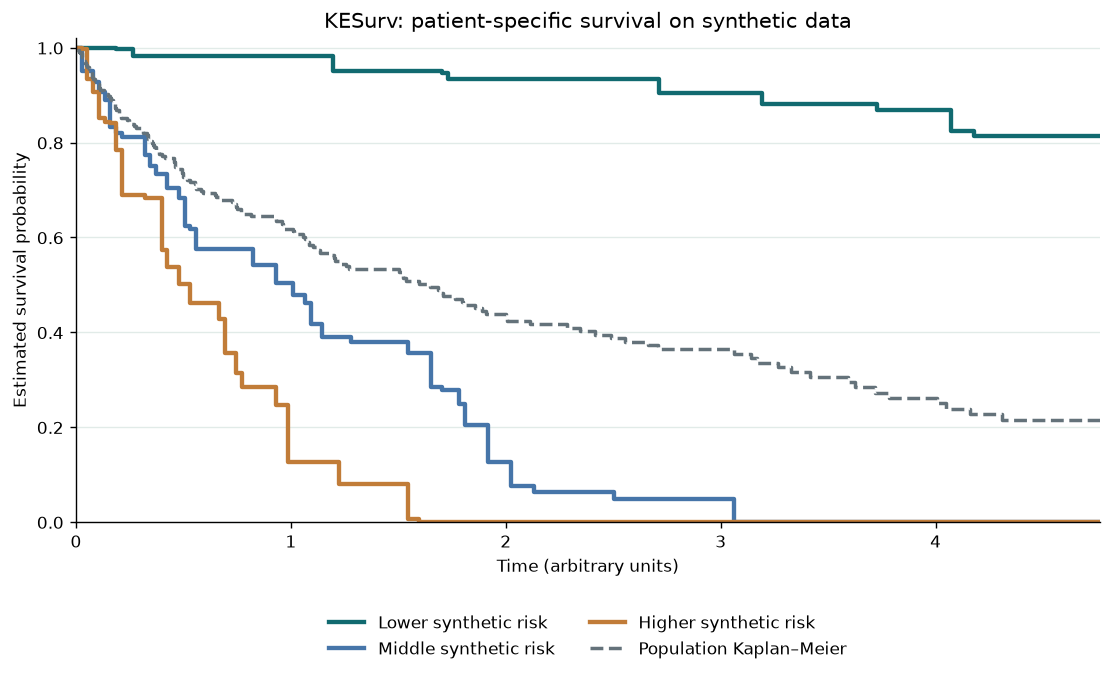
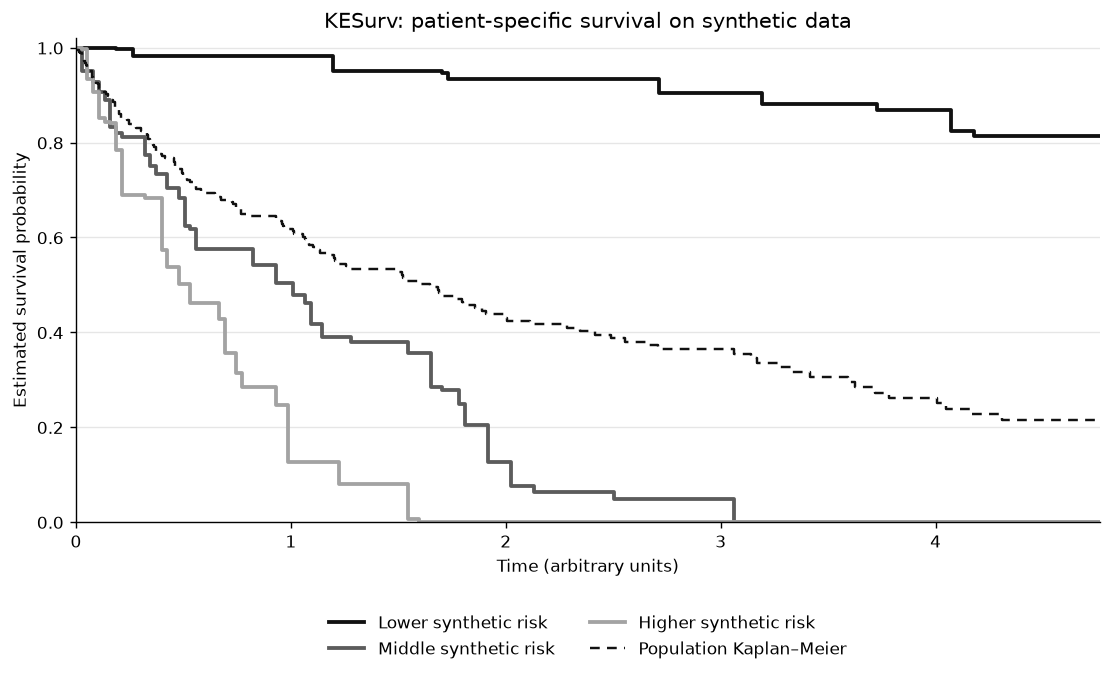
docs: monochrome editorial redesign of the landing page
Serif display type, grid-paper hero, feature cards with line icons, a
numbered pipeline, framed figure, and a grayscale synthetic-curve plot.

diff --git a/docs/_static/custom.css b/docs/_static/custom.css
@@ -1,15 +1,81 @@
-/* Minimal adjustments on top of Furo. */
-@import url("https://fonts.googleapis.com/css2?family=Inter:wght@400;500;600;700&family=JetBrains+Mono:wght@400;500&display=swap");
+/* KESurv: a monochrome, typographic layer on top of Furo. */
+@import url("https://fonts.googleapis.com/css2?family=Inter:wght@400;500;600;700&family=Instrument+Serif:ital@0;1&family=JetBrains+Mono:wght@400;500&display=swap");
 
-body { font-feature-settings: "cv11", "ss01"; }
-article h1 { font-weight: 700; letter-spacing: -0.02em; }
-article h2 { font-weight: 600; letter-spacing: -0.01em; margin-top: 2.2rem; }
+:root { --ks-radius: 10px; --ks-serif: "Instrument Serif", Georgia, serif; }
 
-.ks-lead { font-size: 1.15rem; line-height: 1.6; color: var(--color-foreground-secondary); max-width: 40rem; }
-.ks-links { display: flex; flex-wrap: wrap; gap: 0.5rem 1.25rem; margin: 1.25rem 0 2rem; font-weight: 500; }
-.ks-links a { text-decoration: none; }
-.ks-links a:hover { text-decoration: underline; }
+body { font-feature-settings: "cv11", "ss01"; -webkit-font-smoothing: antialiased; }
+article h1 { font-family: var(--ks-serif); font-weight: 400; font-size: 2.7rem; letter-spacing: -0.01em; }
+article h2 { font-weight: 600; letter-spacing: -0.015em; margin-top: 2.6rem; padding-bottom: .4rem; border-bottom: 1px solid var(--color-background-border); }
+article h3 { font-weight: 600; }
+.sidebar-brand-text { font-family: var(--ks-serif); font-size: 1.7rem; font-weight: 400; }
+.sidebar-tree .caption { letter-spacing: .08em; font-size: .7rem; }
 
-.ks-flow { font-family: var(--font-stack--monospace); font-size: 0.85rem; color: var(--color-foreground-secondary); padding: 0.9rem 1rem; border-left: 2px solid var(--color-brand-primary); background: var(--color-background-secondary); margin: 1rem 0 1.5rem; }
+/* Code, tables, admonitions: thin hairlines, no tint. */
+.highlight { border: 1px solid var(--color-background-border); border-radius: var(--ks-radius); }
+article table.docutils { border: 1px solid var(--color-background-border); box-shadow: none; }
+article table.docutils th { background: var(--color-background-secondary); font-weight: 600; }
+.admonition { border-radius: var(--ks-radius); box-shadow: none; border: 1px solid var(--color-background-border); }
 
-article img { border-radius: 6px; }
+/* Landing page: the markdown H1 only supplies the page title. */
+#kesurv > h1 { position: absolute; width: 1px; height: 1px; overflow: hidden; clip-path: inset(50%); }
+
+.ks-hero {
+  position: relative; margin: .5rem 0 1.4rem; padding: 3rem 2.25rem 2.5rem;
+  border: 1px solid var(--color-background-border); border-radius: 14px;
+  background-color: var(--color-background-primary);
+  background-image:
+    linear-gradient(var(--color-background-border) 1px, transparent 1px),
+    linear-gradient(90deg, var(--color-background-border) 1px, transparent 1px);
+  background-size: 28px 28px; background-position: -1px -1px;
+  overflow: clip; clear: both;
+}
+.ks-hero::before { /* fade the grid behind the text */
+  content: ""; position: absolute; inset: 0; pointer-events: none;
+  background: radial-gradient(ellipse at 22% 45%, var(--color-background-primary) 38%, transparent 88%);
+}
+.ks-hero > * { position: relative; }
+.ks-eyebrow { font-size: .78rem; color: var(--color-foreground-secondary); letter-spacing: .02em; }
+.ks-eyebrow span { display: inline-block; margin-right: .5rem; padding: .1rem .5rem; border: 1px solid var(--color-foreground-border); border-radius: 999px; font-family: var(--font-stack--monospace); font-size: .72rem; color: var(--color-foreground-primary); background: var(--color-background-primary); }
+.ks-display { font-family: var(--ks-serif); font-size: clamp(2.6rem, 6vw, 4.2rem); line-height: 1.02; letter-spacing: -.02em; margin: 1rem 0 1.1rem; color: var(--color-foreground-primary); }
+.ks-display em { color: var(--color-foreground-secondary); }
+.ks-lead { font-size: 1.1rem; line-height: 1.65; color: var(--color-foreground-secondary); max-width: 36rem; margin: 0; }
+.ks-actions { display: flex; flex-wrap: wrap; align-items: center; gap: .65rem; margin-top: 1.8rem; }
+.ks-btn { padding: .6rem 1.1rem; border-radius: 8px; font-weight: 600; font-size: .92rem; text-decoration: none !important; transition: transform .15s ease; }
+.ks-btn:hover { transform: translateY(-1px); }
+.ks-btn-solid { background: var(--color-foreground-primary); color: var(--color-background-primary) !important; }
+.ks-btn-ghost { border: 1px solid var(--color-foreground-border); color: var(--color-foreground-primary) !important; background: var(--color-background-primary); }
+code.ks-install { padding: .55rem .9rem !important; border: 1px dashed var(--color-foreground-border) !important; border-radius: 8px; background: var(--color-background-primary) !important; font-size: .85rem !important; color: var(--color-foreground-secondary) !important; }
+
+.ks-features { clear: both; display: grid; grid-template-columns: repeat(auto-fit, minmax(190px, 1fr)); gap: .9rem; margin-bottom: 1rem; }
+.ks-card { display: block; padding: 1.2rem 1.2rem 1.1rem; border: 1px solid var(--color-background-border); border-radius: var(--ks-radius); text-decoration: none !important; color: inherit !important; transition: border-color .15s ease, transform .15s ease; }
+.ks-card:hover { border-color: var(--color-foreground-primary); transform: translateY(-2px); }
+.ks-card svg { width: 22px; height: 22px; fill: none; stroke: var(--color-foreground-primary); stroke-width: 1.5; stroke-linecap: round; stroke-linejoin: round; }
+.ks-card h3 { font-size: 1rem; padding: 0; margin: .7rem 0 .35rem; }
+.ks-card p { margin: 0; font-size: .88rem; line-height: 1.55; color: var(--color-foreground-secondary); }
+
+.ks-steps { list-style: none; counter-reset: step; padding: 0 !important; margin: 1.2rem 0; display: grid; grid-template-columns: repeat(4, 1fr); border: 1px solid var(--color-background-border); border-radius: var(--ks-radius); }
+.ks-steps li { counter-increment: step; position: relative; padding: 1.1rem 1.1rem 1.2rem; margin: 0 !important; border-right: 1px solid var(--color-background-border); }
+.ks-steps li:last-child { border-right: 0; }
+.ks-steps li::before { content: "0" counter(step); display: block; font-family: var(--font-stack--monospace); font-size: .72rem; color: var(--color-foreground-muted); margin-bottom: .5rem; }
+.ks-steps li:not(:last-child)::after { content: "→"; position: absolute; right: -.55rem; top: 1rem; z-index: 1; font-size: .8rem; padding: 0 .15rem; background: var(--color-background-primary); color: var(--color-foreground-muted); }
+.ks-steps b { display: block; font-family: var(--ks-serif); font-weight: 400; font-size: 1.5rem; margin-bottom: .25rem; }
+.ks-steps span { font-size: .86rem; line-height: 1.5; color: var(--color-foreground-secondary); }
+@media (max-width: 900px) {
+  .ks-steps { grid-template-columns: repeat(2, 1fr); }
+  .ks-steps li:nth-child(2) { border-right: 0; }
+  .ks-steps li:nth-child(-n+2) { border-bottom: 1px solid var(--color-background-border); }
+  .ks-steps li:nth-child(2)::after { display: none; }
+}
+@media (max-width: 640px) {
+  .ks-steps { grid-template-columns: 1fr; }
+  .ks-hero { padding: 2rem 1.25rem; }
+  .ks-steps li { border-right: 0; border-bottom: 1px solid var(--color-background-border); }
+  .ks-steps li:last-child { border-bottom: 0; }
+  .ks-steps li::after { display: none; }
+}
+
+.ks-figure { margin: 2rem 0; padding: 1rem; border: 1px solid var(--color-background-border); border-radius: var(--ks-radius); }
+.ks-figure img { display: block; width: 100%; border-radius: 6px; background: #fff; }
+.ks-figure figcaption { margin-top: .75rem; font-size: .85rem; color: var(--color-foreground-secondary); text-align: center; }
+
+.ks-cite { padding: 1rem 1.2rem; border-left: 2px solid var(--color-foreground-primary); background: var(--color-background-secondary); font-family: var(--ks-serif); font-size: 1.2rem; line-height: 1.5; border-radius: 0 var(--ks-radius) var(--ks-radius) 0; }

diff --git a/examples/build_synthetic_notebook.py b/examples/build_synthetic_notebook.py
@@ -101,17 +101,17 @@ def main() -> None:
             "    y_train[y_train.dtype.names[0]], y_train[y_train.dtype.names[1]]\n"
             ")\n\n"
             "fig, ax = plt.subplots(figsize=(9, 5.6), dpi=125)\n"
-            "colors = ['#116a70', '#4675a9', '#c17c38']\n"
+            "shades = ['#111111', '#5c5c5c', '#a3a3a3']\n"
             "labels = ['Lower synthetic risk', 'Middle synthetic risk', 'Higher synthetic risk']\n"
-            "for row, (color, label) in enumerate(zip(colors, labels)):\n"
-            "    ax.step(times, survival[row], where='post', lw=2.5, color=color, label=label)\n"
-            "ax.step(km_times, km_survival, where='post', lw=2, ls='--',\n"
-            "        color='#64727a', label='Population Kaplan–Meier')\n"
+            "for row, (color, label) in enumerate(zip(shades, labels)):\n"
+            "    ax.step(times, survival[row], where='post', lw=2.2, color=color, label=label)\n"
+            "ax.step(km_times, km_survival, where='post', lw=1.4, ls=(0, (4, 3)),\n"
+            "        color='#111111', label='Population Kaplan–Meier')\n"
             "ax.set(xlim=(0, horizon), ylim=(0, 1.02), xlabel='Time (arbitrary units)',\n"
             "       ylabel='Estimated survival probability',\n"
             "       title='KESurv: patient-specific survival on synthetic data')\n"
             "ax.spines[['top', 'right']].set_visible(False)\n"
-            "ax.grid(axis='y', color='#dce8e5', alpha=0.85)\n"
+            "ax.grid(axis='y', color='#e6e6e6')\n"
             "ax.legend(frameon=False, loc='upper center', ncol=2,\n"
             "          bbox_to_anchor=(0.5, -0.16))\n"
             "fig.tight_layout()\n"

diff --git a/docs/conf.py b/docs/conf.py
@@ -35,7 +35,7 @@ copybutton_prompt_text = r">>> |\$ "
 copybutton_prompt_is_regexp = True
 
 html_theme = "furo"
-html_title = f"KESurv {release}"
+html_title = "KESurv"
 html_baseurl = "https://kesurv.statml.in/"
 html_favicon = "_static/favicon.svg"
 html_static_path = ["_static"]
@@ -47,14 +47,14 @@ html_theme_options = {
     "source_branch": "main",
     "source_directory": "docs/",
     "light_css_variables": {
-        "color-brand-primary": "#0f6b66",
-        "color-brand-content": "#0f6b66",
+        "color-brand-primary": "#111111",
+        "color-brand-content": "#111111",
         "font-stack": "Inter, system-ui, -apple-system, 'Segoe UI', sans-serif",
         "font-stack--monospace": "'JetBrains Mono', ui-monospace, SFMono-Regular, Menlo, monospace",
     },
     "dark_css_variables": {
-        "color-brand-primary": "#6fd6c4",
-        "color-brand-content": "#6fd6c4",
+        "color-brand-primary": "#f2f2f2",
+        "color-brand-content": "#f2f2f2",
     },
     "footer_icons": [
         {

diff --git a/docs/index.md b/docs/index.md
@@ -1,23 +1,44 @@
 # KESurv
 
-<p class="ks-lead">Patient-specific survival curves from right-censored data. A survival forest proposes neighbors, your own survival models vote on which neighbors look alike, and a weighted Kaplan–Meier estimator turns the selected neighbors into a curve.</p>
-
-<div class="ks-links">
-  <a href="getting-started.html">Get started →</a>
-  <a href="concepts.html">How it works</a>
-  <a href="api.html">API reference</a>
-  <a href="https://github.com/yuvrajiro/kesurv">GitHub</a>
+<div class="ks-hero">
+  <div class="ks-eyebrow"><span>v0.1.0</span> Kernel ensemble survival estimation · ACML 2026</div>
+  <p class="ks-display">Survival curves,<br><em>grounded in local evidence.</em></p>
+  <p class="ks-lead">A survival forest proposes neighbors, your own models vote on which of them look alike, and a weighted Kaplan–Meier estimator turns the chosen neighbors into a patient-specific curve.</p>
+  <div class="ks-actions">
+    <a class="ks-btn ks-btn-solid" href="getting-started.html">Get started</a>
+    <a class="ks-btn ks-btn-ghost" href="concepts.html">How it works</a>
+    <code class="ks-install">$ pip install kesurv</code>
+  </div>
 </div>
 
-## Install
+<div class="ks-features">
+  <a class="ks-card" href="custom-estimators.html">
+    <svg viewBox="0 0 24 24"><rect x="3" y="3" width="7" height="7" rx="1.5"/><rect x="14" y="3" width="7" height="7" rx="1.5"/><rect x="3" y="14" width="7" height="7" rx="1.5"/><path d="M17.5 14v7M14 17.5h7"/></svg>
+    <h3>Bring any learner</h3>
+    <p>Anything with <code>fit</code> and <code>predict_survival_function</code> can vote, whether from scikit-survival or your own class.</p>
+  </a>
+  <a class="ks-card" href="predictions.html">
+    <svg viewBox="0 0 24 24"><circle cx="11" cy="11" r="6.5"/><path d="M16 16l5 5"/><path d="M8 11h6M11 8v6"/></svg>
+    <h3>Inspect every curve</h3>
+    <p>Forest weights, agreement counts, selected neighbors and fallbacks are all returned, not hidden.</p>
+  </a>
+  <a class="ks-card" href="performance.html">
+    <svg viewBox="0 0 24 24"><path d="M3 12h4l3-7 4 14 3-7h4"/></svg>
+    <h3>Tune the cost</h3>
+    <p>Choose the similarity horizon, grid resolution, batch size, and NumPy or Numba kernels.</p>
+  </a>
+</div>
 
-```console
-pip install kesurv
-```
+## How a prediction is made
 
-Add the optional Numba kernels with `pip install "kesurv[speed]"`. Python 3.10 or newer is required.
+<ol class="ks-steps">
+  <li><b>Forest</b><span>Leaves of a random survival forest give bootstrap-weighted candidate neighbors.</span></li>
+  <li><b>Curves</b><span>Each base model predicts survival curves for the query and every candidate.</span></li>
+  <li><b>Vote</b><span>A model votes for a candidate when the area between their curves is at most ε.</span></li>
+  <li><b>Estimate</b><span>Candidates with enough votes feed a weighted Kaplan–Meier curve.</span></li>
+</ol>
 
-## Example
+## Quick example
 
 ```python
 from kesurv import KESurv
@@ -40,26 +61,20 @@ model.predict_survival(X_test, times=[1.0, 2.0, 3.0])  # (n_test, 3) probabiliti
 model.predict_neighbor_info(X_test[:1])                 # which neighbors, and why
 ```
 
-`X` is a finite numeric matrix and `y` a scikit-survival structured array (`Surv.from_arrays`). [Getting started](getting-started.md) has a complete, runnable version.
+`X` is a finite numeric matrix and `y` a scikit-survival structured array (`Surv.from_arrays`). [Getting started](getting-started.md) has a complete runnable version. Install `kesurv[speed]` for the optional Numba kernels. Python 3.10 or newer is required.
 
-## The method in one line
-
-<div class="ks-flow">survival forest → candidate neighbors → base-model agreement → weighted Kaplan–Meier</div>
-
-- **Bring any learner.** Any object with `fit` and `predict_survival_function` can vote, including scikit-survival models and [your own](custom-estimators.md).
-- **Inspect every prediction.** Forest weights, agreement counts, selected neighbors and fallbacks are all exposed ([predictions](predictions.md)).
-- **Control the cost.** The similarity horizon, grid resolution, batch size and NumPy or Numba backend are all configurable ([performance](performance.md)).
-
-![Three KESurv patient-specific survival curves compared with a population Kaplan–Meier curve on synthetic data.](_static/synthetic-survival-curves.png)
-
-The figure comes from the [synthetic notebook](synthetic-demo.ipynb).
+<figure class="ks-figure">
+  <img src="_static/synthetic-survival-curves.png" alt="Three KESurv patient-specific survival curves compared with a population Kaplan–Meier curve on synthetic data.">
+  <figcaption>Three patient-specific curves against the population Kaplan–Meier curve, from the <a href="synthetic-demo.html">synthetic notebook</a>.</figcaption>
+</figure>
 
 ## Citation
 
-KESurv implements the method in *KESurv: A Kernel Ensemble Method for Patient-Specific Survival Prediction*, Proceedings of Machine Learning Research (ACML 2026).
+<div class="ks-cite">KESurv: A Kernel Ensemble Method for Patient-Specific Survival Prediction. <i>Proceedings of Machine Learning Research</i>, ACML 2026.</div>
 
 ```{toctree}
 :hidden:
+:caption: Guide
 
 getting-started
 concepts
@@ -67,6 +82,12 @@ predictions
 custom-estimators
 synthetic-demo
 performance
+```
+
+```{toctree}
+:hidden:
+:caption: Reference
+
 api
 faq
 contributing

diff --git a/README.md b/README.md
@@ -2,7 +2,7 @@
 
 [![PyPI](https://img.shields.io/pypi/v/kesurv.svg)](https://pypi.org/project/kesurv/)
 [![Tests](https://github.com/yuvrajiro/kesurv/actions/workflows/ci.yml/badge.svg)](https://github.com/yuvrajiro/kesurv/actions/workflows/ci.yml)
-[![Docs](https://img.shields.io/badge/docs-kesurv.statml.in-0f6b66)](https://kesurv.statml.in)
+[![Docs](https://img.shields.io/badge/docs-kesurv.statml.in-111111)](https://kesurv.statml.in)
 [![License: MIT](https://img.shields.io/badge/license-MIT-blue.svg)](https://github.com/yuvrajiro/kesurv/blob/main/LICENSE)
 
 KESurv estimates patient-specific survival curves from right-censored data. A survival forest supplies adaptive neighbor weights; user-selected survival models vote on which neighbors have similar predicted survival trajectories; a weighted Kaplan–Meier estimator produces the final curve.
